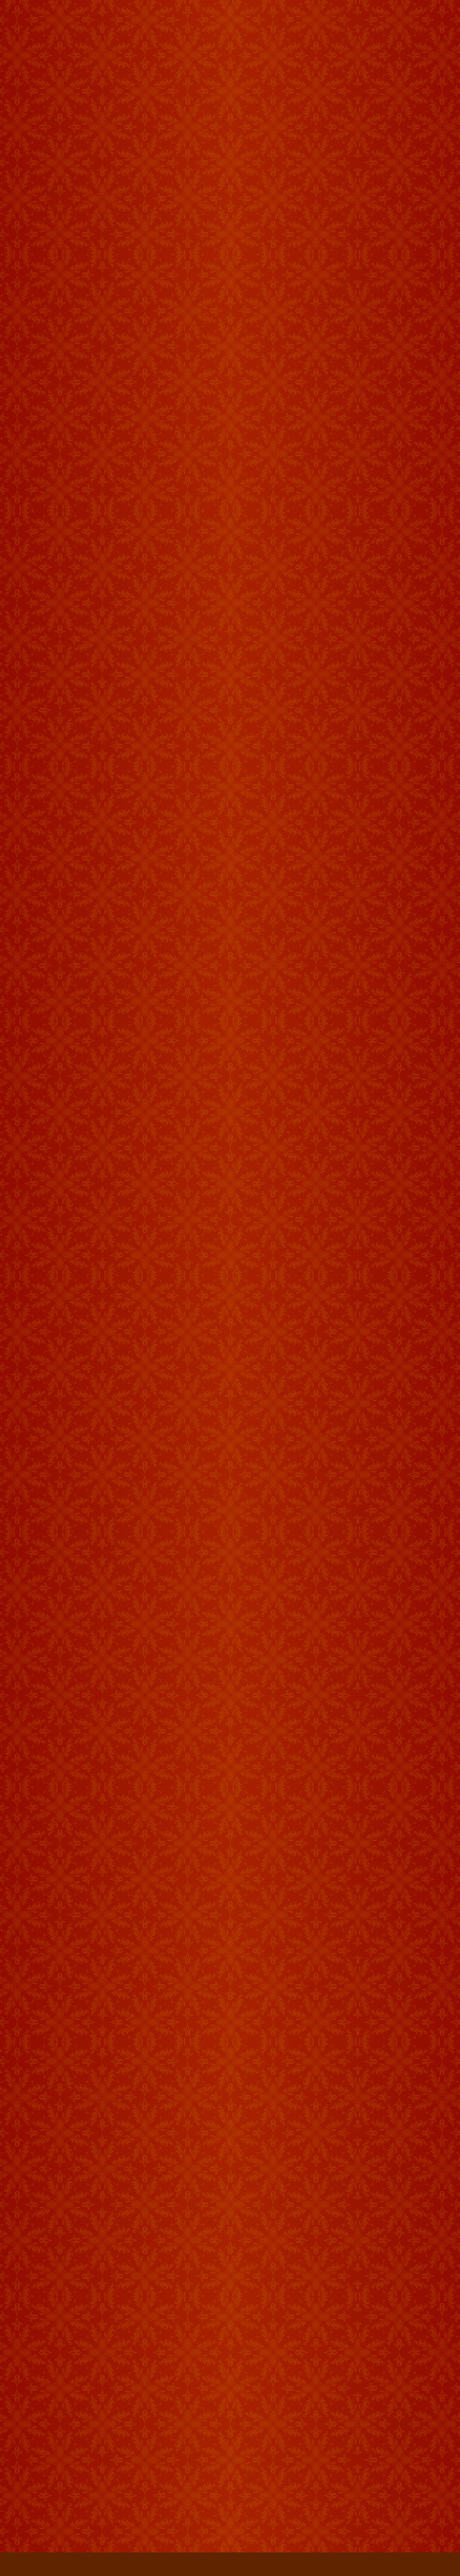
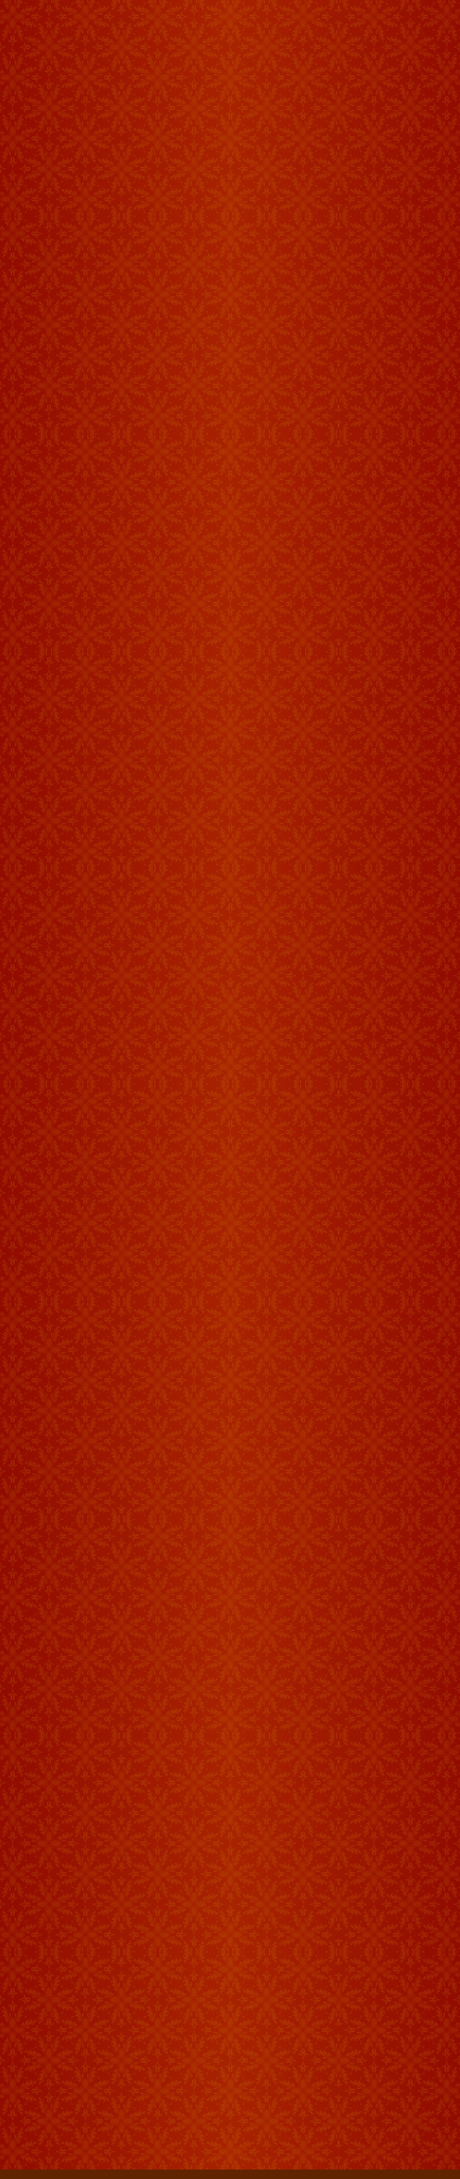
update

Changed region(s): [[0.0, 0.9646, 1.0, 0.9957]]

diff --git a/components/CoupleMessage.jsx b/components/CoupleMessage.jsx
@@ -5,8 +5,8 @@ export default function CoupleMessage() {
 
         <div className="bg-[#9e1902] bg-[url('/assets/bg_three_respo.webp')] md:bg-[url('/assets/bg_three.webp')] bg-cover bg-no-repeat">
             <div className="h-546 md:h-489 lg:h-982 3xl:h-1144">
-                <h1 className="text-base md:text-2xl lg:text-[36px] text-center text-[#FFF5B9] pt-12 lg:pt-40 jacques-francois">A message from the couple</h1>
-                <h2 className="text-xs md:text-xl lg:text-[32px] text-center text-[#FFF5B9] px-6 md:px-17 lg:px-53 3xl:px-103 mt-12 lg:mt-36 jacques-francois leading-4 md:leading-8 lg:leading-8 3xl:leading-10">
+                <h1 className="text-base md:text-2xl lg:text-[36px] text-center text-[#FFF5B9] pt-12 lg:pt-40 3xl:pt-48 jacques-francois">A message from the couple</h1>
+                <h2 className="text-xs md:text-xl lg:text-[32px] text-center text-[#FFF5B9] px-6 md:px-17 lg:px-53 3xl:px-103 mt-10 lg:mt-36 jacques-francois leading-4 md:leading-8 lg:leading-8 3xl:leading-10">
                     We are both so delighted that you are able to join us in celebrating what
                     we hope will be one of the happiest days of our lives. The affection shown
                     to us by so many people since our roka has been incredibly moving, and has
@@ -15,26 +15,20 @@ export default function CoupleMessage() {
                     you at the wedding. 
                 </h2>
 
-                 <div className="relative flex flex-col items-center mt-14 md:mt-12 lg:mt-20 3xl:mt-50">
+                 <div className="relative flex flex-col items-center mt-7 md:mt-12 lg:mt-20">
                     <img src="/assets/flowers.webp" alt="flowers" className="absolute right-[-2] w-22 h-18 md:right-[-4] md:w-38 md:h-34 
-                               lg:right-[-8] lg:w-56 lg:h-52 3xl:w-64 3xl:h-60 z-10" />
-                    <img src="/assets/couple_one.webp" alt="couple_one" className=" absolute top-8 left-14 w-45 h-60 md:left-47 
-                               md:top-15 md:w-80 md:h-90 lg:left-84 lg:top-25 lg:w-143 lg:h-186 3xl:left-135 3xl:top-30 3xl:w-160 3xl:h-200 z-10" />
-                    <img src="/assets/couple_two.webp" alt="couple_two" className="absolute top-15 right-14 w-25 h-25 md:top-19 
-                               md:right-41 md:w-40 md:h-40 lg:top-38 lg:right-92 lg:w-65 lg:h-71 3xl:top-42 3xl:right-120 3xl:w-70 3xl:h-76 z-20" />
-                    <img src="/assets/couple_three.webp" alt="couple_three" className="absolute top-30 right-20 w-28 h-32 md:top-48 
-                               md:right-54 md:w-40 md:h-47 lg:top-93 lg:right-103 lg:w-78 lg:h-92 3xl:top-102 3xl:right-133 3xl:w-83 3xl:h-97 z-10" />
-                    <img src="/assets/couple_four.webp" alt="couple_four" className="absolute mt-2 top-54 right-24 w-38 h-25 md:top-85 md:right-60  
-                               md:w-60 md:h-40 lg:w-116 lg:h-79 lg:top-170 lg:right-112 3xl:w-126 3xl:h-84 3xl:top-186 3xl:right-142 z-20" />
-                    <img src="/assets/bouquet.webp" alt="flowers" className="absolute left-1 top-70 w-24 h-30 md:left-23 md:top-107 md:w-40 
-                               md:h-46 lg:left-45 lg:top-220 lg:w-64 lg:h-93 3xl:left-80 3xl:top-240 3xl:w-89 3xl:h-98 z-40" />
+                               lg:right-[-8] lg:w-56 lg:h-52 3xl:w-74 3xl:h-70 z-10" />
+                    <img src="/assets/couple_collage.webp" alt="couple_one" className="absolute top-6 left-20 w-60 h-70 md:left-42 
+                               md:top-15 md:w-110 md:h-120 lg:left-84 lg:top-25 lg:w-143 lg:h-186 3xl:left-135 3xl:top-30 3xl:w-215 3xl:h-237 z-10" />
+                    <img src="/assets/bouquet.webp" alt="flowers" className="absolute left-7 top-67 w-24 h-30 md:left-21 md:top-114 md:w-40 
+                               md:h-46 lg:left-45 lg:top-220 lg:w-64 lg:h-93 3xl:left-80 3xl:top-240 3xl:w-100 3xl:h-100 z-40" />
                  </div>
 
 
-                <h1 className="text-center text-5xl md:text-6xl lg:text-[122px] lg:leading-35 text-[#FFF5B9] pt-110 md:pt-160 lg:pt-350 3xl:pt-380 jacques-francois">
+                <h1 className="text-center text-5xl md:text-6xl lg:text-[122px] lg:leading-35 text-[#FFF5B9] pt-105 md:pt-160 lg:pt-350 3xl:pt-380 jacques-francois">
                     Things to <br /> know
                 </h1>
-                <h2 className="text-xs md:text-xl lg:text-[32px] text-center text-[#FFF5B9] pt-6 md:pt-6 lg:pt-10 3xl:pt-10 px-8 md:px-20 lg:px-58 3xl:px-108 mt-6 lg:mt-4 3xl:mt-10 jacques-francois">
+                <h2 className="text-xs md:text-xl lg:text-[32px] text-center text-[#FFF5B9] pt-4 md:pt-6 lg:pt-10 3xl:pt-14 px-8 md:px-20 lg:px-58 3xl:px-108 mt-6 lg:mt-4 3xl:mt-10 jacques-francois">
                     To help you feel at ease and enjoy every moment of the celebrations,
                     we’ve gathered a few thoughtful details we’d love for you to know
                     before the big day.
@@ -91,11 +85,11 @@ export default function CoupleMessage() {
 
 
 
-                <div className="flex items-center mt-4 md:mt-0 lg:mt-60 3xl:mt-90 gap-5 md:gap-30 3xl:gap-70">
+                <div className="flex items-center mt-4 md:mt-0 lg:mt-60 3xl:mt-90 gap-3 md:gap-30 lg:gap-22 3xl:gap-43">
                     <img
                         src="/assets/couple_last.webp"
                         alt="couple"
-                        className="w-60 h-50 md:w-100 md:h-80 lg:w-200 lg:h-165 3xl:w-240 3xl:h-200 object-cover pl-4 md:pl-10 lg:pl-17"
+                        className="w-75 h-65 md:w-100 md:h-80 lg:w-220 lg:h-185 3xl:w-275 3xl:h-235 object-cover pl-4 md:pl-10 lg:pl-17"
                     />
                     <div className="flex flex-col justify-center items-center">
                         <h2 className="font-cormorant-upright font-semibold text-center text-sm md:text-3xl lg:text-[64px] text-[#FFF5B9] md:leading-8 lg:leading-20 leading-3">

diff --git a/app/page.tsx b/app/page.tsx
@@ -144,15 +144,15 @@ export default function Home() {
 
 
       {/* hero section */}
-      <div className="bg-[url('/assets/bg_respo.webp')] md:bg-[url('/assets/bg.webp')] bg-cover bg-no-repeat
-                        bg-top md:bg-center w-full min-h-screen overflow-hidden relative">
+      <div className="bg-[url('/assets/bg_respo.webp')] md:bg-[url('/assets/bg_one.webp')] bg-cover bg-no-repeat
+                      bg-top md:bg-center w-full overflow-hidden relative">
 
         <RoseHeroTemp />
         {/* <FallingLamps /> */}
-        <div className="pt-2 md:pt-34 lg:pt-54 3xl:pt-40 relative z-10">
+        <div className="pt-6 md:pt-34 lg:pt-54 3xl:pt-90 relative z-10">
         
           <h2 className="text-[#C47E39] text-center leading-tight text-3xl md:text-5xl lg:text-[64px]  
-                           flex flex-col items-center gap-y-0 lg:gap-y-5">
+                           flex flex-col items-center gap-y-0 lg:gap-y-5 pb-170 md:pb-780 lg:pb-780 3xl:pb-950">
 
             <span className="jacques-francois">VISHNU</span>
 
@@ -162,7 +162,7 @@ export default function Home() {
 
           </h2>
 
-          <div className="flex flex-col items-center text-center gap-6 pt-20 md:pt-35 lg:pt-80 mt-170 md:mt-40 lg:mt-780 3xl:mt-900">
+          <div className="flex flex-col items-center text-center gap-6 pt-20 md:pt-35 lg:pt-80 3xl:pt-100">
 
             <p className="jacques-francois text-base md:text-2xl lg:text-3xl text-[#FFF5B9] text-center">ॐ श्री गणेशाय नम</p>
             <img src="/assets/ganesh.webp" alt="ganesh" className="w-25 h-29 md:w-34 md:h-38 lg:w-41 lg:h-53" />
@@ -198,7 +198,7 @@ export default function Home() {
               <br />  KAVYA
             </h2>
 
-            <p className="text-[#FFF5B9] jacques-francois text-sm md:text-xl lg:text-[26px] mt-2 3xl:mt-12">
+            <p className="text-[#FFF5B9] jacques-francois text-sm md:text-xl lg:text-[26px] mt-2 lg:mt-6 3xl:mt-12">
                 Daughter of <br /> Shri Mahesh Shetty & Shrimati Asha Shetty
             </p>
 
@@ -209,12 +209,12 @@ export default function Home() {
           </div>
 
           <div className="flex justify-center mt-15 md:mt-25 lg:mt-40">
-            <div className="grid grid-cols-1 sm:grid-cols-2 lg:grid-cols-3 lg:gap-24 gap-16 pb-40">
+            <div className="grid grid-cols-1 sm:grid-cols-2 lg:grid-cols-3 gap-16 lg:gap-24 3xl:gap-40 pb-40">
               {events.map((event, i) => (
                 <div key={i} className="flex flex-col items-center text-center">
                   <img
                     src={event.image}
-                    className="lg:w-80 w-75 sm:w-76 h-auto"
+                    className="w-75 h-auto md:w-76 lg:w-80 3xl:w-95"
                   />
 
                   <h2 className="text-[#FFF5B9] jacques-francois text-3xl md:text-2xl lg:text-[42px] mt-4">
@@ -243,7 +243,7 @@ export default function Home() {
         
 
 
-          <div className="bg-[url('/assets/bg_two.webp')] bg-cover bg-no-repeat w-full h-86 md:h-181 lg:h-335 3xl:h-422
+          <div className="bg-[url('/assets/bg_second.webp')] bg-cover bg-no-repeat w-full h-96 md:h-181 lg:h-335 3xl:h-422
                           overflow-hidden relative">
             {/* Center Text */}
             <div className="flex flex-col justify-center items-center text-center pt-30 pl-50 md:pt-60 md:pl-110 lg:pt-115 lg:pl-210 3xl:pt-145 3xl:pl-240">
@@ -268,7 +268,7 @@ export default function Home() {
       <CoupleMessage />
 
       <div className=" bg-[url('/assets/bg_fourth.webp')] bg-cover bg-no-repeat ">
-        <div className="h-119 md:h-251 lg:h-467 3xl:h-589 flex flex-col items-center">
+        <div className="h-132 md:h-251 lg:h-467 3xl:h-589 flex flex-col items-center">
           <img src="/assets/couple_logo.webp" alt="logo" width={250} height={300} className="w-25 h-23 md:w-43 md:h-42 lg:w-75 lg:h-73 mt-16 md:mt-33 lg:mt-65 3xl:mt-82" />
         </div>
       </div>

diff --git a/components/MarriageCountdown.jsx b/components/MarriageCountdown.jsx
@@ -40,7 +40,7 @@ export default function MarriageCountdown() {
                 <div className="h-80 md:h-72 lg:h-130 3xl:h-183">
                     <h2 className=" text-2xl lg:text-[52px] text-center text-[#FFF5B9] pt-14 md:pt-15 lg:pt-30 3xl:pt-42 jacques-francois leading-8">The countdown begins</h2> 
                       <h2 className="text-2xl lg:text-[52px] text-center text-[#FFF5B9] jacques-francois"> {timeLeft.days}D {timeLeft.hours}H {timeLeft.minutes}M</h2>
-                    <p className="text-xs lg:text-[32px] text-[#FFF5B9] mt-4 3xl:mt-10 text-center px-3 md:px-55 lg:px-70 3xl:px-120 jacques-francois">
+                    <p className="text-xs lg:text-[32px] text-[#FFF5B9] mt-4 3xl:mt-10 text-center px-3 md:px-55 lg:px-70 3xl:px-110 jacques-francois">
                         Our families are excited that you are able to join us in celebrating what we hope will be one of the happiest days of our lives.
                     </p>
                     <div className="flex flex-col-1 gap-4 justify-center items-center mt-6 3xl:mt-16">
